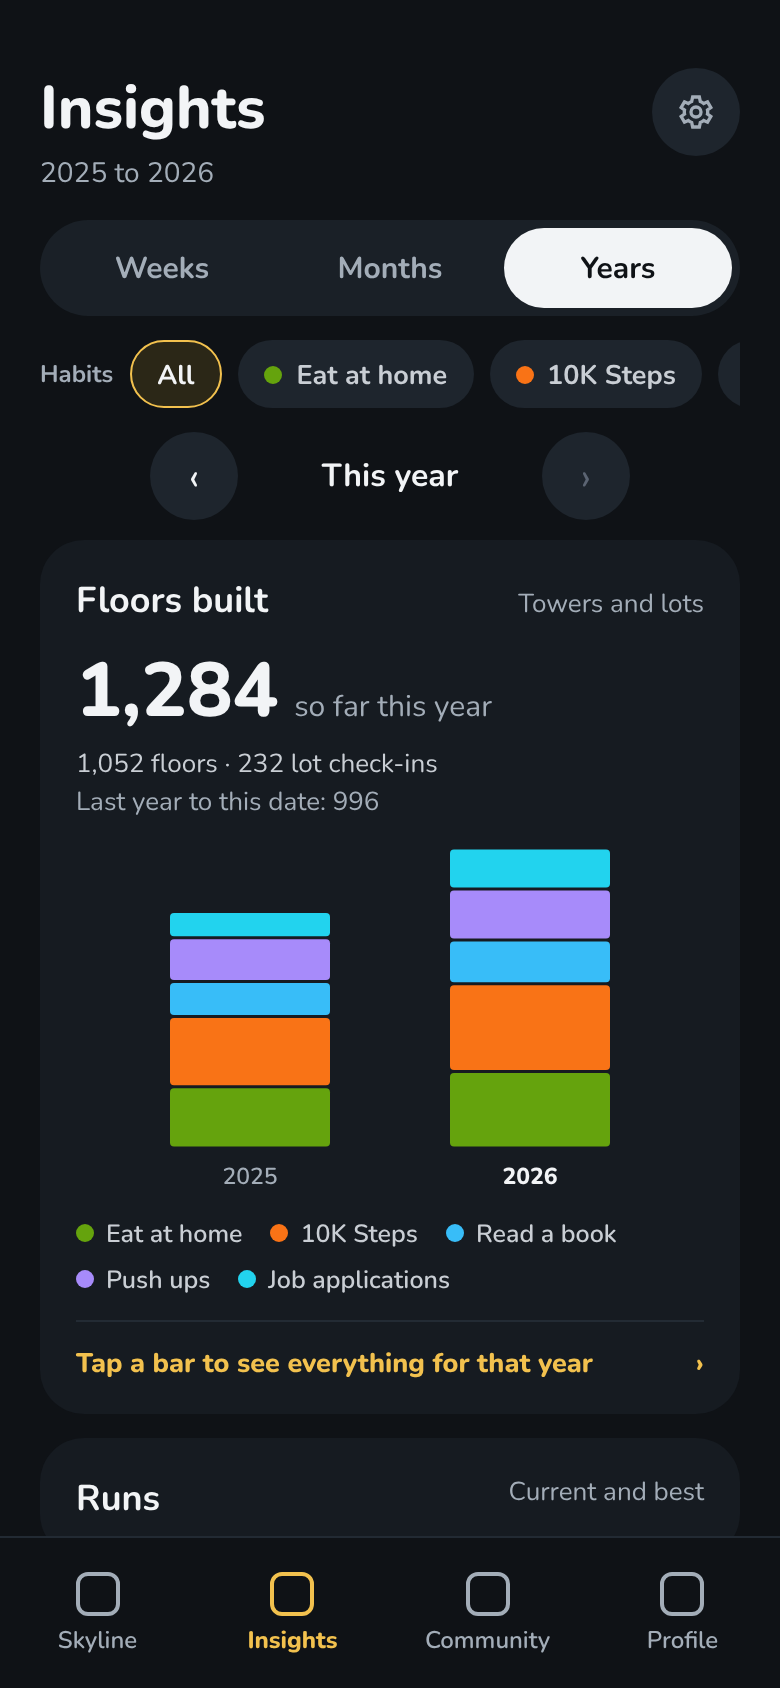
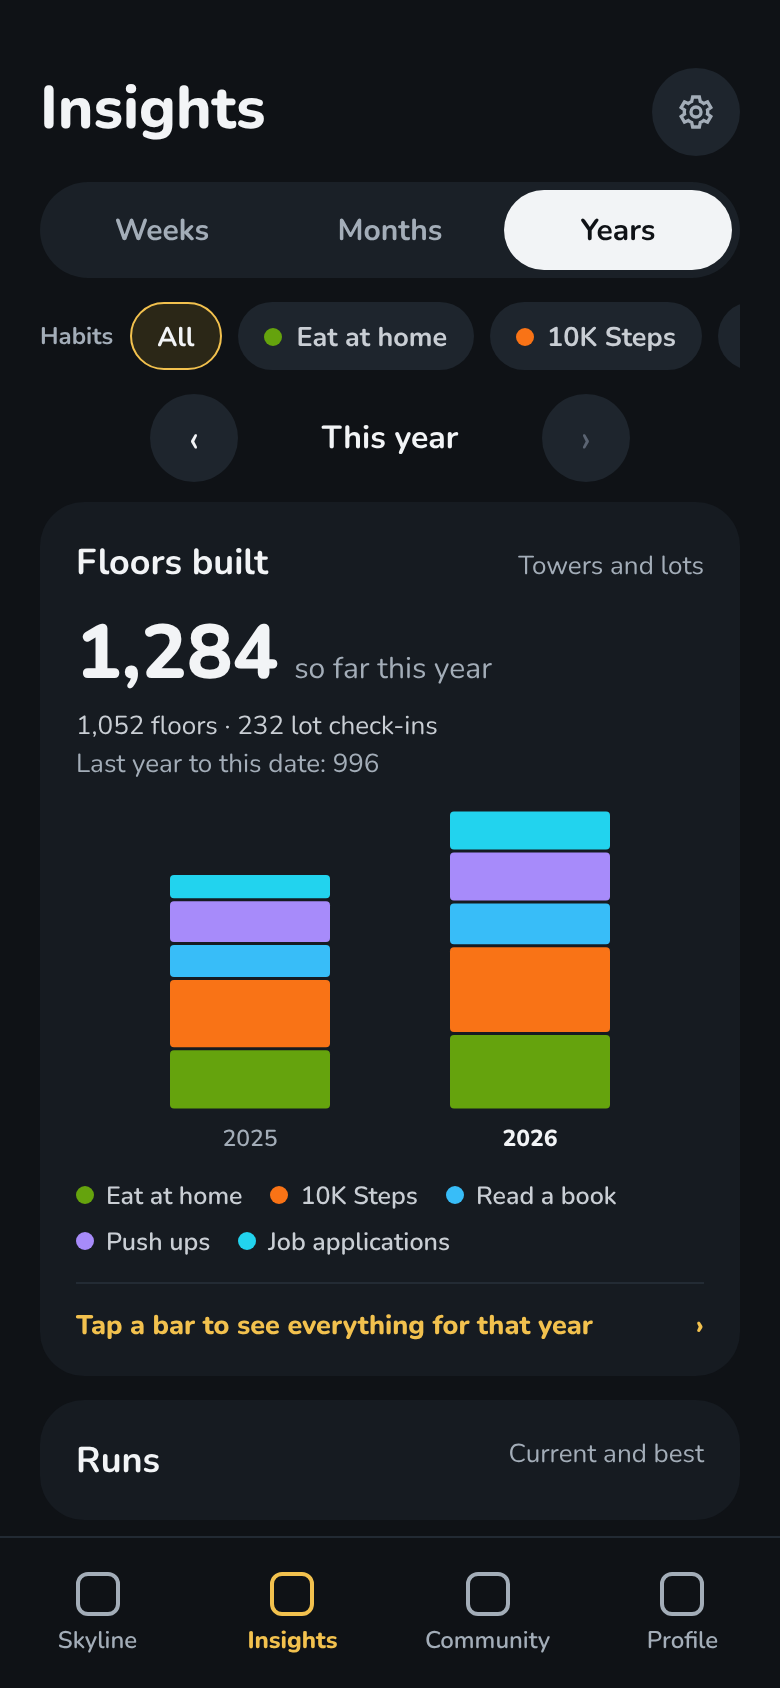
Design: remove the subtitle under the Insights title on boards 28-30
Claude-Session: https://claude.ai/code/session_01UvWD32uMFJU1E2B9jDYiLg

diff --git a/design/skyline/source/ins.js b/design/skyline/source/ins.js
@@ -37,7 +37,7 @@ if(S==='main'){
              {lab:'Jun to Nov 2026',nav:'This month',cols:MONTHS,l:ML,head:['58','so far this month','47 floors · 11 lot check-ins','Last month at this point: 64'],bw:38,gap:14},
              {lab:'2025 to 2026',nav:'This year',cols:YEARS,l:YL,head:['1,284','so far this year','1,052 floors · 232 lot check-ins','Last year to this date: 996'],bw:80,gap:60}][tab];
   el.innerHTML=`${gearBtn}
-  <div style="padding:34px 20px 0"><h1 style="font-size:30px">Insights</h1><div style="color:#A3ADB8;font-size:14px;margin:2px 0 14px">${cfg.lab}</div>
+  <div style="padding:34px 20px 0"><h1 style="font-size:30px;margin-bottom:16px">Insights</h1>
   ${seg(['Weeks','Months','Years'],tab)}<div style="margin-top:12px">${chips()}</div>
   <div style="margin-top:12px;display:flex;align-items:center;justify-content:center;gap:28px"><div style="width:44px;height:44px;border-radius:22px;background:#1E252D;display:flex;align-items:center;justify-content:center;font-size:20px">‹</div><b style="font-size:16px;min-width:96px;text-align:center">${cfg.nav}</b><div style="width:44px;height:44px;border-radius:22px;background:#1E252D;display:flex;align-items:center;justify-content:center;font-size:20px;color:#5B6472">›</div></div>
   <div style="margin-top:10px;background:#161B21;border-radius:22px;padding:18px 18px 16px">

diff --git a/design/skyline/README.md b/design/skyline/README.md
@@ -36,7 +36,7 @@ This is the only folder of Skyline mockups. The old `concept _screens/` folder w
 | 25 | `25-sheet-tall-tower-B-pinned.png` | Tower details, tall tower, option B | 3 | **NOT CHOSEN (2026-11-14):** the owner picked option A (board 24). Kept for reference only. One layout for every tower: content scrolls, the Top out card and 6 buttons are pinned at the bottom. |
 | 26 | `26-inside-view-build-open-day.png` | Inside view, build an open day | 3 | **APPROVED by the owner 2026-11-14.** Any past open day since the habit started, but personal habits only; shared habits keep the 7-day limit. The sheet's quick "Add another day" list stays. Selecting an open day shows "Hold to build" in the day tooltip, so any past day can be filled from here. |
 | 27 | `27-lot-sheet-day-callout.png` | Lot sheet (monthly), per-day chart callout | 2b | **APPROVED by the owner 2026-11-14.** Tapping a day in the grid or the chart shows the callout; counts also stay inside the grid squares. One callout above the selected day instead of a label on every bar. |
-| 28–30 | `28-insights-weeks.png`, `29-insights-months.png`, `30-insights-years.png` | Insights main page, Weeks / Months / Years tabs | 5 | **PROPOSAL, awaiting owner approval (2026-11-14).** Replaces the Floors built card of board 06. Tabs read Weeks / Months / Years. The subtitle is the date range the bars cover ("Sep 21 to Nov 15"), and the "This week / This month / This year" arrows page back through earlier windows, so all history is reachable. Runs is all-time and Shield use covers the last 12 weeks; neither is limited by the chart window. Floors built counts weekly and monthly habits too (their check-ins), tagged "Towers and lots", and the line under the headline splits floors and lot check-ins. Tapping a bar opens the details page. Runs and Shield use are unchanged. |
+| 28–30 | `28-insights-weeks.png`, `29-insights-months.png`, `30-insights-years.png` | Insights main page, Weeks / Months / Years tabs | 5 | **PROPOSAL, awaiting owner approval (2026-11-14).** Replaces the Floors built card of board 06. Tabs read Weeks / Months / Years. There is no subtitle under the title (the owner found it misleading). The "This week / This month / This year" arrows page back through earlier windows, so all history is reachable. Runs is all-time and Shield use covers the last 12 weeks; neither is limited by the chart window. Floors built counts weekly and monthly habits too (their check-ins), tagged "Towers and lots", and the line under the headline splits floors and lot check-ins. Tapping a bar opens the details page. Runs and Shield use are unchanged. |
 | 31–33 | `31-insights-week-details.png`, `32-insights-month-details.png`, `33-insights-year-details.png` | Period details (week, month, year) | 5 | **PROPOSAL, awaiting owner approval (2026-11-14).** One page for everything about a period: two summary tiles, a day-by-day (month-by-month for years) chart, then a card per habit with its own strip (7 days, a 7-column month grid, or 12 months), floors against the same point last period, current and best run, and Shield Days used. Weekly/monthly habits show a target bar. Previous/next arrows step between periods. Uses the glass Shield Day and see-through open floor. |
 
 `superseded/` keeps the old versions of 01, 03, 07 and 22 for history. Don't build from them.
